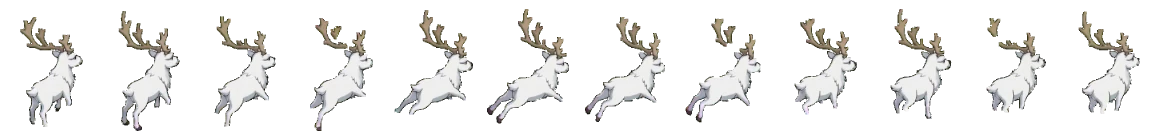
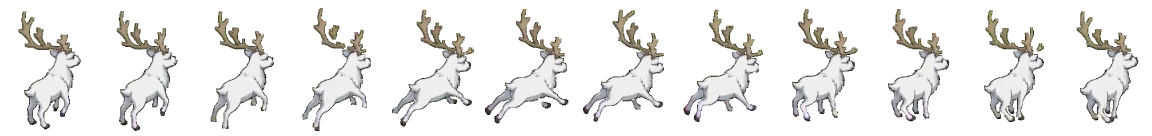
Neue Ladebilder je Welt und Parkabschnitt, Futterautomat nicht mehr neben dem Auto, Tropenhalle mit Futterautomat am Steg, Tutorial: Bauen-Leiste schließt nach dem Eisstand, Tierfreund vor dem Stall; Durchgangs-Maps mit Rückweg auch am Start, Giraffe folgt zu 50 %, Tapir bleibt nicht mehr schwimmend

Changed region(s): [[0.0, 0.0588, 0.9062, 0.9706], [0.9375, 0.0882, 1.0, 0.9118]]

diff --git a/tools/prepare-characters.js b/tools/prepare-characters.js
@@ -1153,12 +1153,12 @@ const ANIMATIONS = [
   { src: 'Animation/Gorilla2 idle hinten.mp4', out: 'gorilla2_idle_back.png', every: 2, figureH: 81, frameW: 104, frameH: 96, feetY: 92 },
   // trommelt: Bild 0–14 anfangen, 15–27 durchgehend trommeln (Loop), 66–81 aufhören (Bild 65 gleicht Bild 15); siehe GORILLA2_DRUM in BootScene
   { src: 'Animation/Gorilla2 trommelt.mp4', out: 'gorilla2_drum.png', skip: [...Array(38).keys()].map((i) => i + 28).concat([...Array(13).keys()].map((i) => i + 82)), figureH: 82, frameW: 104, frameH: 96, feetY: 92 },
-  { src: 'Animation/Rentier2 läuft vorne.mp4', out: 'reindeer2_walk.png', dropShadowGreen: 18, dropGreyHalo: true, onlyFigure: true, keepParts: 0.02, range: [13, 29], scale: 0.4, frameW: 96, frameH: 136, feetY: 131 },
-  { src: 'Animation/Rentier2 läuft hinten.mp4', out: 'reindeer2_walk_back.png', dropShadowGreen: 18, dropGreyHalo: true, onlyFigure: true, keepParts: 0.02, range: [65, 91], scale: 0.4, frameW: 96, frameH: 136, feetY: 131 },
-  { src: 'Animation/Rentier2 rennt vorne.mp4', out: 'reindeer2_run.png', dropShadowGreen: 18, dropGreyHalo: true, onlyFigure: true, keepParts: 0.02, range: [46, 59], scale: 0.4, frameW: 96, frameH: 136, feetY: 131 },
-  { src: 'Animation/Rentier2 rennt hinten.mp4', out: 'reindeer2_run_back.png', dropShadowGreen: 18, dropGreyHalo: true, onlyFigure: true, keepParts: 0.02, range: [67, 78], scale: 0.4, frameW: 96, frameH: 136, feetY: 131 },
-  { src: 'Animation/Rentier2 idle vorne.mp4', out: 'reindeer2_idle.png', dropShadowGreen: 18, dropGreyHalo: true, onlyFigure: true, keepParts: 0.02, every: 2, scale: 0.4, frameW: 96, frameH: 136, feetY: 131 },
-  { src: 'Animation/Rentier2 idle hinten.mp4', out: 'reindeer2_idle_back.png', dropShadowGreen: 18, dropGreyHalo: true, onlyFigure: true, keepParts: 0.02, every: 2, scale: 0.4, frameW: 96, frameH: 136, feetY: 131 },
+  { src: 'Animation/Rentier2 läuft vorne.mp4', out: 'reindeer2_walk.png', dropShadowGreen: 18, dropGreyHalo: true, onlyFigure: true, keepParts: 0.004, despill: true, range: [13, 29], scale: 0.4, frameW: 96, frameH: 136, feetY: 131 },
+  { src: 'Animation/Rentier2 läuft hinten.mp4', out: 'reindeer2_walk_back.png', dropShadowGreen: 18, dropGreyHalo: true, onlyFigure: true, keepParts: 0.004, despill: true, range: [65, 91], scale: 0.4, frameW: 96, frameH: 136, feetY: 131 },
+  { src: 'Animation/Rentier2 rennt vorne.mp4', out: 'reindeer2_run.png', dropShadowGreen: 18, dropGreyHalo: true, onlyFigure: true, keepParts: 0.004, despill: true, range: [46, 59], scale: 0.4, frameW: 96, frameH: 136, feetY: 131 },
+  { src: 'Animation/Rentier2 rennt hinten.mp4', out: 'reindeer2_run_back.png', dropShadowGreen: 18, dropGreyHalo: true, onlyFigure: true, keepParts: 0.004, despill: true, range: [67, 78], scale: 0.4, frameW: 96, frameH: 136, feetY: 131 },
+  { src: 'Animation/Rentier2 idle vorne.mp4', out: 'reindeer2_idle.png', dropShadowGreen: 18, dropGreyHalo: true, onlyFigure: true, keepParts: 0.004, despill: true, every: 2, scale: 0.4, frameW: 96, frameH: 136, feetY: 131 },
+  { src: 'Animation/Rentier2 idle hinten.mp4', out: 'reindeer2_idle_back.png', dropShadowGreen: 18, dropGreyHalo: true, onlyFigure: true, keepParts: 0.004, despill: true, every: 2, scale: 0.4, frameW: 96, frameH: 136, feetY: 131 },
   // Zwergflusspferd, Pinselohrschwein, Fischertukan: Rahmen und Figurhöhe wie beim normalen Tier (das Zwergflusspferd
   // verkleinert das Spiel selbst, PYGMY_SCALE in Hippo.js). Überall der kürzeste nahtlose Loop (tools/find-loop.py),
   // auch beim Stehen: alle Bilder, aber langsam abgespielt (VIDEO_RATE in BootScene). Nilpferd läuft: Videos ohne Loop,
@@ -1220,6 +1220,7 @@ const ANIMATIONS = [
 // darkShadow: dunkelgrüne Schattenreste am Rand der Figur weg (siehe readVideo);
 // dropGreyHalo: halb durchsichtiges Dunkelgrau ohne Rotstich weg (Schatten, Rand eines Lichtscheins; Schneeleopard von hinten);
 // onlyFigure: Grünstichiges weg und je Bild nur das größte zusammenhängende Stück behalten (z. B. ohne die Atemwolke);
+// despill: grünen Schimmer auf hellem Fell neutralisieren, statt die Pixel wegzuwerfen (weißes Rentier);
 // keepParts: dazu auch Stücke ab diesem Anteil am größten (Geweihhälfte am dünnen Steg, Rentier);
 // dropSteel: neutral graue, helle Pixel weg (eine Messerklinge; Kleidung und Fell sind wärmer getönt), den Umriss danach
 // entfernt onlyFigure
@@ -1286,7 +1287,7 @@ function keepLargestPart(data, W, ox, oy, w, h, keepParts = 0) {
   for (let p = 0; p < w * h; p++) if (!keep[p]) data[((oy + Math.floor(p / w)) * W + ox + (p % w)) * 4 + 3] = 0;
 }
 
-function loadGrid({ src, cols, rows, count, range, every = 1, skip = [], mirror = [], dropGreen = false, saturate = 1, brightness = 1, evenBrightness = false, steady = false, degreen = false, stabilize = false, clipBelow, clipAbove, keyPerFrame = false, dropShadowGreen, whiteBreath = false, onlyFigure = false, dropSteel = false, dropGreyHalo = false, darkShadow = false, keepParts = 0 }) {
+function loadGrid({ src, cols, rows, count, range, every = 1, skip = [], mirror = [], dropGreen = false, saturate = 1, brightness = 1, evenBrightness = false, steady = false, degreen = false, stabilize = false, clipBelow, clipAbove, keyPerFrame = false, dropShadowGreen, whiteBreath = false, onlyFigure = false, dropSteel = false, dropGreyHalo = false, darkShadow = false, keepParts = 0, despill = false }) {
   const video = /\.(mp4|mov|webm)$/i.test(src);
   const img = video ? readVideo(src, keyPerFrame, darkShadow) : PNG.sync.read(fs.readFileSync(path.resolve(src)));
   if (video) [cols, rows] = [img.frames, 1];
@@ -1315,6 +1316,14 @@ function loadGrid({ src, cols, rows, count, range, every = 1, skip = [], mirror 
   }
   if (clipBelow !== undefined) {
     for (let k = 0; k < data.length; k += 4) if (Math.floor(k / 4 / W) % ch > clipBelow) data[k + 3] = 0;
+  }
+  if (despill) {
+    // helles Fell mit grünem Schimmer vom Greenscreen (weißes Rentier: Beine, Geweihspitzen) zurück auf neutral, bevor
+    // dropShadowGreen und onlyFigure grünstichige Pixel wegwerfen; dunkelgrüne Schattenreste (wenig Rot/Blau) bleiben grün
+    for (let k = 0; k < data.length; k += 4) {
+      const rb = Math.max(data[k], data[k + 2]);
+      if (data[k + 3] && rb >= 110 && data[k + 1] > rb) data[k + 1] = rb;
+    }
   }
   if (dropShadowGreen !== undefined) {
     for (let k = 0; k < data.length; k += 4) if (data[k + 1] - Math.max(data[k], data[k + 2]) > dropShadowGreen) data[k + 3] = 0;

diff --git a/src/story/steps.js b/src/story/steps.js
@@ -194,23 +194,6 @@ export const STEPS = [
     already: [tr('Du hast ja schon eine Bude – lecker!', 'You’ve already got a stand – yummy!')],
     outro: [
       tr('Super! Die Besucher stehen schon an – jeder Verkauf bringt dir Herzen.', 'Great! The visitors are already queueing – every sale brings you hearts.'),
-      tr('Komm mit, gleich hinter dem Haupthaus ist unser Stall!', 'Come along, our stable is right behind the main building!'),
-    ],
-    reward: 20,
-  },
-  {
-    // Stall: Reittiere leihen oder kaufen, E-Roller freischalten (siehe src/world/mounts.js)
-    id: 'stable',
-    at: { level: 'park', spot: 'stable' },
-    goal: tr('Schau in den Stall hinter dem Haupthaus', 'Look into the stable behind the main building'),
-    done: (game) => !!game.story.flags.stable,
-    intro: [
-      tr('Das ist unser Stall. Hier gibt es Reittiere – damit bist du in den Welten viel schneller!', 'This is our stable. It has mounts – they make you much faster in the worlds!'),
-      tr('Du kannst eins für 10 Minuten leihen oder für ein Gebiet für immer kaufen. Auch den E-Roller für den Park gibt es hier.', 'You can rent one for 10 minutes or buy one forever for an area. The e-scooter for the zoo is here too.'),
-    ],
-    already: [tr('Den Stall kennst du ja schon!', 'You already know the stable!')],
-    outro: [
-      tr('Spar deine Herzen – ein eigenes Reittier lohnt sich!', 'Save your hearts – your own mount is worth it!'),
       tr('Komm mit zum Streichelzoo, ich möchte dir noch etwas Schönes zeigen!', 'Come along to the petting zoo, I’d like to show you something lovely!'),
     ],
     reward: 20,
@@ -232,7 +215,24 @@ export const STEPS = [
       tr('Schau, wie es sich freut! Je öfter du es besuchst, desto enger wird eure Freundschaft.', 'Look how happy it is! The more often you visit, the closer you become.'),
       tr('Der Balken über dem Namen zeigt, wie weit es bis zur nächsten Stufe ist.', 'The bar above the name shows how far it is to the next level.'),
       tr('Im Futterhaus gibt es auch Futter für deine Freunde. Was frisst deiner am liebsten?', 'The food house also has food for your friends. What does yours like best?'),
-      tr('Und jetzt geht die Reise los: Die Savanne ist offen!', 'And now the journey begins: the savanna is open!'),
+      tr('Komm mit, gleich hinter dem Haupthaus ist unser Stall!', 'Come along, our stable is right behind the main building!'),
+    ],
+    reward: 20,
+  },
+  {
+    // Stall: Reittiere leihen oder kaufen, E-Roller freischalten (siehe src/world/mounts.js)
+    id: 'stable',
+    at: { level: 'park', spot: 'stable' },
+    goal: tr('Schau in den Stall hinter dem Haupthaus', 'Look into the stable behind the main building'),
+    done: (game) => !!game.story.flags.stable,
+    intro: [
+      tr('Das ist unser Stall. Hier gibt es Reittiere – damit bist du in den Welten viel schneller!', 'This is our stable. It has mounts – they make you much faster in the worlds!'),
+      tr('Du kannst eins für 10 Minuten leihen oder für ein Gebiet für immer kaufen. Auch den E-Roller für den Park gibt es hier.', 'You can rent one for 10 minutes or buy one forever for an area. The e-scooter for the zoo is here too.'),
+    ],
+    already: [tr('Den Stall kennst du ja schon!', 'You already know the stable!')],
+    outro: [
+      tr('Spar deine Herzen – ein eigenes Reittier lohnt sich!', 'Save your hearts – your own mount is worth it!'),
+      tr('Und jetzt geht die Reise los: Die Savanne ist offen! Dort hilft dir ein Reittier.', 'And now the journey begins: the savanna is open! A mount helps you there.'),
       tr('Fahr mit dem Auto hin – ich warte dort an der Hütte auf dich.', 'Drive there by car – I’ll wait for you at the hut.'),
     ],
     reward: 20,
@@ -241,6 +241,8 @@ export const STEPS = [
   {
     id: 'savanna',
     at: { level: 'savanna', spot: 'hut' },
+    // (alte Spielstände: dort kam der Stall vor dem Tierfreund, die Savanne öffnet sonst erst der Stall)
+    begin: (game) => game.story.unlocked.includes('savanna') || game.story.unlocked.push('savanna'),
     goal: tr('Fang 3 verschiedene Tierarten in der Savanne', 'Catch 3 different kinds of animals in the savanna'),
     progress: (game) => count(kinds(game, 'savanna'), SAVANNA_KINDS),
     done: (game) => kinds(game, 'savanna') >= SAVANNA_KINDS,

diff --git a/src/world/levels.js b/src/world/levels.js
@@ -1328,7 +1328,7 @@ LEVELS.park = parkSection('park', {
     ...[32, 33, 34, 35, 36, 37].map((ty) => [26, ty, 'VVVVVVV']),
     ...[28, 29, 30].map((ty) => [34, ty, 'VV']), // Stall (stableBox) rechts hinter dem Haupthaus: gesperrt
     [51, 30, 'F'], // Futterautomat im Streichelzoo neben dem Katzenhaus
-    [32, 44, 'F'], // ... und am Weg unten rechts beim Haupthaus (Richtung Voliere)
+    [39, 49, 'F'], // ... und unten am Weg zwischen Flamingos und Reiher-Voliere (nicht neben dem Auto)
   ],
   name: tr('Tierpark', 'Zoo'),
   part: { name: tr('Zentrum', 'Center'), icon: 'hero' }, // Feld im Tierpark-Schild der Weltkarte
@@ -1365,7 +1365,7 @@ LEVELS.park = parkSection('park', {
   // wheelSlot: { id: 'wheel', tx: 29, ty: 25, clear: { tx0: 25, tx1: 34, ty0: 24, ty1: 29 } },
   houseDoor: { tx: 29.5, ty: 38 }, // Tür des Haupthauses (Mavis Pfeil, wenn es drinnen weitergeht)
   // Futterautomaten: von jedem Gehege höchstens etwa 20 Kacheln Fußweg (Andre, 27.11.2026)
-  feeders: [{ tx: 40, ty: 43, world: 'meadow' }, { tx: 15, ty: 40, world: 'forest' }, { tx: 51, ty: 30, world: 'meadow' }, { tx: 32, ty: 44, world: 'meadow' }],
+  feeders: [{ tx: 40, ty: 43, world: 'meadow' }, { tx: 15, ty: 40, world: 'forest' }, { tx: 51, ty: 30, world: 'meadow' }, { tx: 39, ty: 49, world: 'meadow' }],
   // Themenbereiche: am großen Wegweiser in der Mitte zeigen die Bretter dorthin
   signScale: 1.25,
   sections: [
@@ -1445,13 +1445,14 @@ LEVELS.park3 = parkSection('park3', {
     [58, 73, 'F'], // ... und am Weg vor der Tropenhalle
     [32, 83, 'F'], // ... am Weg unten bei Affeninsel, Tanukis, Yaks und Schneeleoparden
     [68, 83, 'F'], // ... und hinten in der Tropenhalle (zwischen den Terrarien, Richtung Jaguar)
+    [76, 71, 'F'], // ... und vorne in der Tropenhalle am Steg (bei Tapiren, Teich und Obsttisch)
   ],
   name: tr('Tierpark: Bambuswald & Dschungel', 'Zoo: Bamboo Forest & Jungle'),
   part: { name: tr('Bambuswald & Dschungel', 'Bamboo Forest & Jungle'), icon: 'panda' },
   // mit dem Auto (Schnellreise) und beim Laden kommt man am Teehaus an, auf dem Weg neben der Terrasse
   car: { tx: 37.16, ty: 78.32, texture: 'car_zoo', frame: 0, scale: 1.26, arrive: { tx: 37, ty: 65 } }, // das Auto steht im Garten am Weg zum Teich
   start: { tx: 37, ty: 65 },
-  feeders: [{ tx: 41, ty: 67, world: 'asia' }, { tx: 58, ty: 73, world: 'jungle' }, { tx: 32, ty: 83, world: 'asia' }, { tx: 68, ty: 83, world: 'jungle' }],
+  feeders: [{ tx: 41, ty: 67, world: 'asia' }, { tx: 58, ty: 73, world: 'jungle' }, { tx: 32, ty: 83, world: 'asia' }, { tx: 68, ty: 83, world: 'jungle' }, { tx: 76, ty: 71, world: 'jungle' }],
   scooterSpot: { tx: 34, ty: 77 }, // E-Roller: im Gras neben dem Auto
   legacySlots: [{ id: 'asia1', tx: 37, ty: 74 }, { id: 'asia2', tx: 40, ty: 77 }], // (frühere Bauplätze: im Garten am Weg)
   grounds: [

diff --git a/src/animals/Crocodile.js b/src/animals/Crocodile.js
@@ -51,6 +51,10 @@ export default class Crocodile extends Fish {
     const { swim: SWIM, land: LAND } = this.penTimes();
     this.penTime = (this.penTime ?? Phaser.Math.FloatBetween(3, SWIM[1])) - dt;
     if (!this.onLand) {
+      // (steht es gar nicht im Teich, z. B. alter Platz oder ein Gehege ohne Teich in der Nähe: an Land bleiben, sonst
+      // sähe man es mit dem Schwimm-Bild mitten auf der Wiese)
+      const here = worldToTile(this.x, this.y);
+      if (!isFishpond(here.tx, here.ty)) return this.stayOnLand(LAND);
       if (this.penTime > 0) return super.updateFree(dt, player); // schwimmt im Teich
       // ans Ufer klettern
       const shore = this.nearestShore();
@@ -79,10 +83,9 @@ export default class Crocodile extends Fish {
     const d = Math.hypot(dx, dy);
     if (!b || d < 3 || this.penTime < -BACK_TIMEOUT) {
       const water = b ? b.water : this.nearestShore()?.water;
-      if (water) {
-        this.x = water.x;
-        this.y = water.y;
-      }
+      if (!water) return this.stayOnLand(LAND); // kein Teich erreichbar: weiter an Land
+      this.x = water.x;
+      this.y = water.y;
       this.onLand = false;
       this.penTime = Phaser.Math.FloatBetween(...SWIM);
       this.useWaterLook();
@@ -92,6 +95,16 @@ export default class Crocodile extends Fish {
     }
     const step = Math.min(d, this.kind.speed * dt);
     return this.move((dx / d) * step, (dy / d) * step);
+  }
+
+  // an Land (weiter)laufen, ohne Sprung ins Wasser
+  stayOnLand(LAND) {
+    this.onLand = true;
+    this.backTo = null;
+    this.penTime = Phaser.Math.FloatBetween(...LAND);
+    this.useBagLook();
+    this.pickWander();
+    return false;
   }
 
   // an Land gelten die normalen Regeln (im Gehege bleiben, nicht ins Wasser laufen), im Wasser die des Fischs

diff --git a/src/scenes/GardenScene.js b/src/scenes/GardenScene.js
@@ -653,7 +653,7 @@ const FEED_DIST = 60; // so nah muss man an einer Giraffe stehen, um sie zu füt
 const CARRIED = ['stick', 'leaves', 'salt', 'brush'];
 const LEAF_BUSHES = 3; // so viele Futtersträucher stehen dort, wo Tapire oder Okapis leben
 const LEAF_BUSH_GAP = 7; // so weit (Kacheln) stehen sie mindestens auseinander
-const FEED_CHANCE = 1 / 3; // so wahrscheinlich läuft sie einem nach dem Füttern hinterher
+const FEED_CHANCE = 0.5; // so wahrscheinlich läuft sie einem nach dem Füttern hinterher
 const KOI_FEED_DIST = 50; // so nah muss Wasser vor dem Spieler sein, um Fischfutter zu streuen
 const KOI_CALLED = 3; // höchstens so viele wilde Koi kommen zum Futter (die nächsten)
 const KOI_CALL_DIST = 170; // nur Koi in diesem Umkreis (Welt-Pixel, etwa 5 Kacheln) riechen das Futter
@@ -4954,7 +4954,7 @@ export default class GardenScene extends Phaser.Scene {
     this.cameras.main.fadeOut(200);
     this.cameras.main.once('camerafadeoutcomplete', () => {
       showLoading(tr('Die Bude wird umgestellt …', 'Moving the stand …'));
-      afterPaint(() => this.scene.restart({ level: LEVEL_ID, arrive, decorResume: { ...resume, face }, boothMoved: booth }));
+      afterPaint(() => this.scene.restart({ level: LEVEL_ID, arrive, decorResume: resume && { ...resume, face }, boothMoved: booth }));
     });
   }
 

diff --git a/src/world/DecorMode.js b/src/world/DecorMode.js
@@ -25,6 +25,7 @@ import { isEventsOpen } from '../ui/eventsPanel.js';
 import { boothTiles, builtOn, pickUpBooth, placeBooth, shopsIn, slotsIn, storedBooths } from './shops.js';
 import { isFriend } from './friends.js';
 import { isTouch } from '../ui/touch.js';
+import { activeId as storyActiveId } from '../story/story.js';
 
 const OK = 0x5fd05a;
 const NO = 0xe0503c;
@@ -636,7 +637,10 @@ export default class DecorMode {
       // Bude: an den neuen Platz, dann den Abschnitt neu aufbauen (gleich kauft dort jemand ein)
       const b = this.block(tx, ty, id);
       placeBooth(def.booth, LEVEL_ID, b.tx, b.ty, this.flip);
-      this.scene.rebuildForDecor({ sel: null, pick: false }, def.booth); // (danach nichts in der Hand, auch nicht die Hand)
+      // (danach nichts in der Hand, auch nicht die Hand). Mavis Buden-Aufgabe: die Bauen-Leiste bleibt nach dem Neuaufbau
+      // zu, dann ist die Aufgabe gleich erledigt und Mavi wieder ansprechbar (statt erst „Fertig“ suchen zu müssen)
+      const tut = storyActiveId() === 'stands' && game.story.heard;
+      this.scene.rebuildForDecor(tut ? null : { sel: null, pick: false }, def.booth);
       return;
     }
     giveDecor(id, -1);

diff --git a/src/scenes/BootScene.js b/src/scenes/BootScene.js
@@ -1187,7 +1187,7 @@ export default class BootScene extends Phaser.Scene {
       // seltene Varianten: ein Schrittzyklus dauert so lange wie beim normalen Tier (ihre Loops sind anders lang). Das
       // weiße Rentier galoppiert im Video viel gemächlicher (14 statt 10 Bilder je Sprung), daher deutlich schneller
       elk2_walk: 14, elk2_walk_back: 18, meerkat2_walk: 23, meerkat2_walk_back: 21, hyena2_walk: 26, hyena2_walk_back: 23, gorilla2_walk: 20, gorilla2_walk_back: 18,
-      reindeer2_walk: 18, reindeer2_walk_back: 20, reindeer2_run: 25, reindeer2_run_back: 17,
+      reindeer2_walk: 18, reindeer2_walk_back: 20, reindeer2_run: 16, reindeer2_run_back: 13, // Rennen ruhiger (war 25 bzw. 17, wirkte hektisch)
       hippo2_walk: 21, hippo2_walk_back: 26, warthog2_walk_back: 15,
       // Stehen als kurzer Loop mit allen Videobildern: deutlich langsamer als im Video, sonst wirkt es hektisch
       dartfrog_walk: 36, dartfrog_walk_back: 36, dartfrog_idle: 18, dartfrog_idle_back: 18, // Pfeilgiftfrosch: flinker als im Video

diff --git a/src/world/sideMaps.js b/src/world/sideMaps.js
@@ -70,6 +70,13 @@ export function sideOverrides(base, side) {
     side: true,
     exits: side.canoe ? riverExits(base) : (base.exits ?? []).map((e) => ({ ...e, to: '@back', label: backLabel(base.expedition) })),
   };
+  // zu Fuß hereingekommen: auch gleich hinter einem wieder zurück (Ausgang am linken Rand neben dem Start, ein Stück Weg
+  // dorthin), nicht nur am Ausgang auf der anderen Seite. Nicht im Dschungel: dort liegt links vom Steg der Fluss
+  if (!side.canoe && !base.inlet && base.start.tx <= 3) {
+    const { ty } = base.start;
+    out.rows = base.rows.map((r, y) => (y === ty ? '#'.repeat(base.start.tx) + r.slice(base.start.tx) : r));
+    out.exits = [...out.exits, { tx: 0, ty, to: '@back', label: backLabel(base.expedition) }];
+  }
   for (const [key, sp] of Object.entries(SPECIAL_CONFIGS)) if (base[key] && !(fits(sp) && inSeason(sp))) out[key] = undefined;
   return out;
 }

diff --git a/src/ui/loading.js b/src/ui/loading.js
@@ -20,9 +20,9 @@ export function showLoading(text, progress = null) {
 }
 
 // Hintergrund von Lade- und Startbildschirm: Bildschirmfoto dieser Welt (gibt es keins, bleibt das bisherige)
-const BACKGROUNDS = ['park', 'meadow', 'forest', 'savanna', 'asia', 'jungle', 'reef', 'aquarium'];
+// (die Abschnitte des Tierparks haben je ein eigenes Bild)
+const BACKGROUNDS = ['park', 'park2', 'park3', 'park4', 'meadow', 'forest', 'savanna', 'asia', 'jungle', 'ice', 'reef', 'aquarium'];
 export function setLoadingBackground(level) {
-  if (level === 'park2' || level === 'park3' || level === 'park4') level = 'park'; // die Abschnitte des Tierparks
   level = LEVELS[level]?.expedition ?? level; // Expedition: Bild ihrer Welt
   if (BACKGROUNDS.includes(level)) document.documentElement.style.setProperty('--bg', `url(assets/bg/bg_${level}.jpg)`);
 }

diff --git a/index.html b/index.html
@@ -1239,7 +1239,7 @@
         document.documentElement.lang = l;
         if (l === "en") document.querySelector("#loading .loading-text").textContent = "Loading the game …";
         // Hintergrund für Lade- und Startbildschirm: ein Bildschirmfoto aus einer zufälligen Welt
-        var bgs = ["park", "meadow", "forest", "savanna", "asia", "jungle", "reef", "aquarium"];
+        var bgs = ["park", "park2", "park3", "park4", "meadow", "forest", "savanna", "asia", "jungle", "ice", "reef", "aquarium"];
         document.documentElement.style.setProperty("--bg", "url(assets/bg/bg_" + bgs[Math.floor(Math.random() * bgs.length)] + ".jpg)");
       })();
     </script>
